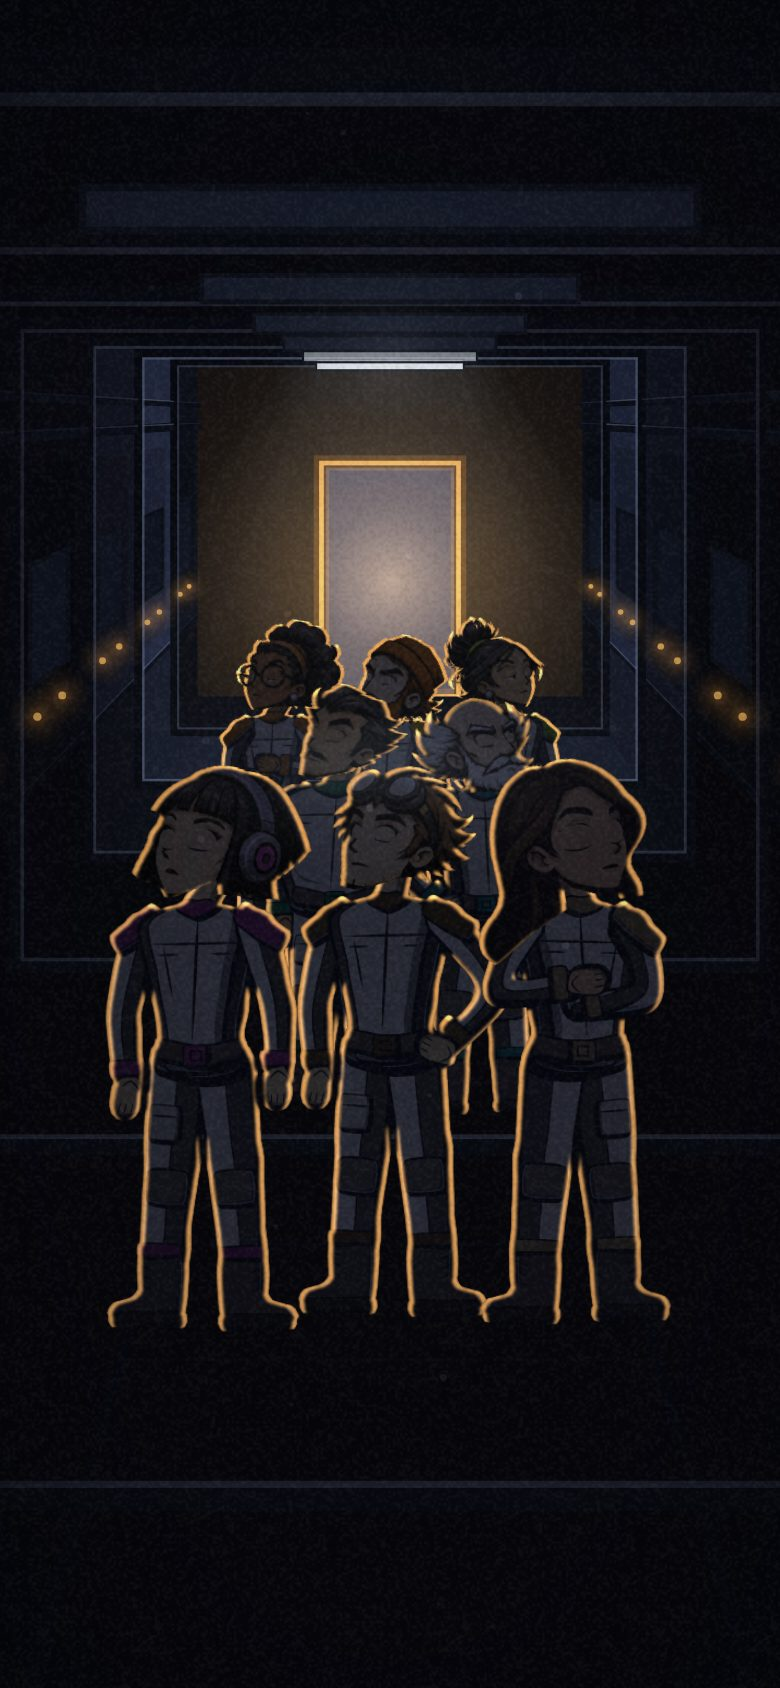
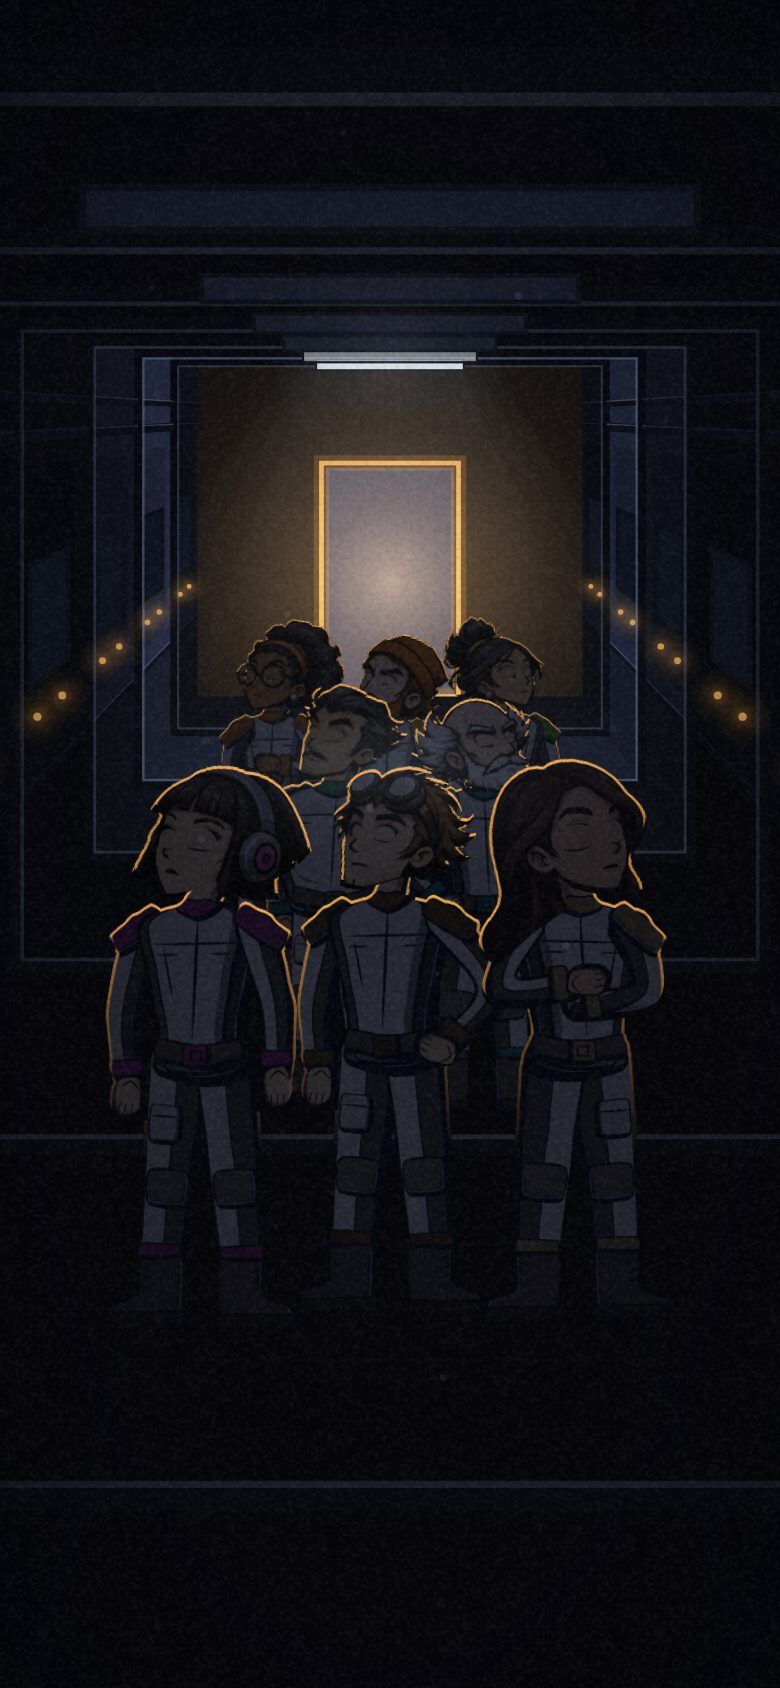
design(boarding film): the check recorded against 67fe6aa0 (the corridor lit from the doorway)
node design/tools/boarding-film-check.mjs on the clean source at 67fe6aa0: 52 of 52
captures, the probe 58 of 58, memory within the budget at all four sizes, and the pilot
faster than today's film at both speeds. Only the two captures of the dark corridor
changed (390x844-dark, 430x932-dark); the other fifty are the same bytes as before.

Measured this run (pictures a second, and with the CPU slowed 4x): today 17.5 and 6.3;
the pilot with its pictures drawn first 53.7 and 21.0; drawn as it plays 33.3 and 7.2.
The document carries these and says how they differ from the run before.

The videos and the sheet are still those rendered from 0842ff6c; the document says so.
They are rendered again with the review's other items.

Claude-Session: https://claude.ai/code/session_018p3bEhhSpSa2GPNE4ofbs3

diff --git a/docs/design/components/boarding-film.md b/docs/design/components/boarding-film.md
@@ -67,7 +67,7 @@ scene.dispose();                              // on every exit, as today
 
 **Its words stay the player's.** The picture is hidden from a screen reader. The player keeps the dialog's name ("The crew boards the ship") and the status line ("The crew boards the ship."); `BOARDING_TEXT` is the same text.
 
-**Preparing early (recommended).** `prepareBoardingScene(document, { roster, width, height })` draws the film's pictures ahead of it and returns what `createBoardingScene` takes as `options.prepared` (the same roster and size), with `ready` and `dispose()`. Call it once the roster is public and the page is quiet, for example when the player's own role film has ended. Drawing took 3.6 s on this desktop and 16.4 s with its CPU slowed 4x, in short pieces that leave the page its turns; a phone's time is not known. Without it the film draws its pictures as it opens: it comes up from the night as version 1's held pictures do, each shot's place and one pose of each figure come first, and a figure whose picture is not ready yet holds its nearest pose.
+**Preparing early (recommended).** `prepareBoardingScene(document, { roster, width, height })` draws the film's pictures ahead of it and returns what `createBoardingScene` takes as `options.prepared` (the same roster and size), with `ready` and `dispose()`. Call it once the roster is public and the page is quiet, for example when the player's own role film has ended. Drawing took 3.9 s on this desktop and 17.9 s with its CPU slowed 4x, in short pieces that leave the page its turns; a phone's time is not known. Without it the film draws its pictures as it opens: it comes up from the night as version 1's held pictures do, each shot's place and one pose of each figure come first, and a figure whose picture is not ready yet holds its nearest pose.
 
 **What Frontend and Integration decide:** admitting the film's files to the hosted build; linking its stylesheet; when to prepare; and that a match pinned to `1.0.0` keeps `1.0.0`.
 
@@ -82,19 +82,21 @@ scene.dispose();                              // on every exit, as today
 
 ## Measured
 
-From [`review/check.json`](../../../design/phone-ui/components/boarding-film/review/check.json), made against `0842ff6c`. Desktop Chromium, headless, drawing in software; 390 × 844 at 2 pixels a point. The slowdown is Chromium's throttle of the page's main thread, a rough stand-in for a slower phone. **No phone was measured: not its frame rate, and not its memory.**
+From [`review/check.json`](../../../design/phone-ui/components/boarding-film/review/check.json), made against `67fe6aa0`. Desktop Chromium, headless, drawing in software; 390 × 844 at 2 pixels a point. The slowdown is Chromium's throttle of the page's main thread, a rough stand-in for a slower phone. **No phone was measured: not its frame rate, and not its memory.**
 
 Both films were played in real time and driven as the live player drives a film (a paint at most thirty times a second):
 
 | Film | Pictures a second | With the CPU slowed 4x |
 | --- | --- | --- |
-| Today, `1.0.0` | 18.4 | 6.3 |
-| The pilot, its pictures drawn first | **56.4** | **20.2** |
-| The pilot, its pictures drawn as it plays | 36.1 | 8.3 |
+| Today, `1.0.0` | 17.5 | 6.3 |
+| The pilot, its pictures drawn first | **53.7** | **21.0** |
+| The pilot, its pictures drawn as it plays | 33.3 | 7.2 |
 
-Its pictures drawn first, the pilot keeps the screen's rate at this desktop's own speed: the page's frames came 16.7 ms apart at the middle, and 2 of the ten seconds' gaps were longer than 34 ms. Under today's film the page's frames came 33.4 ms apart at the middle and 137 gaps were longer than 34 ms: each of its paints rebuilds the picture's SVG (4,665 elements), and with the player painting at most thirty times a second it reached 18.4 pictures a second. To hold its rate the pilot drew its frame a step less sharp than the screen's pixels: 0.8 of them at this desktop's speed (624 × 1350 of 780 × 1688), and 0.5 slowed four times (390 × 844). This machine draws a canvas in software, so how far a phone steps down is not known from this. Today's film draws at the screen's full pixels at both speeds.
+One run each. The run before this one, on the source before the corridor's light changed (`0842ff6c`), gave 18.4 and 6.3, 56.4 and 20.2, 36.1 and 8.3: read each figure as good to a few per cent.
 
-Its pictures drawn as it plays, the pilot shares the page's time with that drawing (6.0 s of it here, 5.1 s slowed four times, where it also goes without the drawings it can spare) and stays at full sharpness while it does so. Slowed four times it reaches 8.3 pictures a second: more than today's film, and not what the pilot is for. **Prepare it.** Drawing the pictures first took 3.6 s here and 16.4 s slowed four times.
+Its pictures drawn first, the pilot keeps the screen's rate at this desktop's own speed: the page's frames came 17.7 ms apart at the middle, and none of the ten seconds' gaps was longer than 34 ms. Under today's film the page's frames came 37.4 ms apart at the middle and 140 gaps were longer than 34 ms: each of its paints rebuilds the picture's SVG (4,665 elements), and with the player painting at most thirty times a second it reached 17.5 pictures a second. To hold its rate the pilot drew its frame less sharp than the screen's pixels: 0.64 of them at this desktop's speed (499 × 1080 of 780 × 1688; 0.8 in the run before), and 0.5 slowed four times (390 × 844). This machine draws a canvas in software, so how far a phone steps down is not known from this. Today's film draws at the screen's full pixels at both speeds.
+
+Its pictures drawn as it plays, the pilot shares the page's time with that drawing (5.9 s of it here, 5.1 s slowed four times, where it also goes without the drawings it can spare) and stays at full sharpness while it does so. Slowed four times it reaches 7.2 pictures a second: more than today's film, and not what the pilot is for. **Prepare it.** Drawing the pictures first took 3.9 s here and 17.9 s slowed four times.
 
 What the pilot's pictures hold, all drawn at once (a crew of 8; a crew of 9 holds about the same):
 
@@ -116,6 +118,8 @@ In `design/phone-ui/components/boarding-film/review/`:
 - `pilot-sheet.jpg`: twelve moments side by side.
 - 52 captures (twenty moments at both sizes in full motion, six again with the device's Reduce motion) and `check.json`, under the production headers.
 
+**The videos and the sheet are from before the corridor's light changed.** They were rendered from `0842ff6c` (`renders.json` says so). The Lead's review of 16 November made the crew in the dark corridor lit from the doorway behind, not outlined (`67fe6aa0`); the captures `390x844-dark.jpg` and `430x932-dark.jpg` and `check.json` are from that source. The videos are rendered again once the review's other items are in.
+
 ## Limits
 
 - **No phone was measured.** Every number above is desktop Chromium drawing in software. A phone draws a canvas on its graphics chip, which this machine does not have; that should help, and it is not evidence.
@@ -123,7 +127,7 @@ In `design/phone-ui/components/boarding-film/review/`:
 - **Sound** is a separate owner decision; the film has none.
 - **The light's layer** needs `mix-blend-mode: screen` (Safari 8 and later, every current browser). Without it the light would lie over the picture as haze.
 - **A first film on a slow phone** starts sharp and steps down over its first second or two; later films on the same page start at the step it settled on.
-- **A film that was not prepared, on a slow phone,** is the weak case: while its pictures are still being drawn it does not step its sharpness down, and with the CPU slowed 4x it reached 8.3 pictures a second against today's 6.3. Preparing avoids it. Letting it step down while it draws is the first thing to harden if the pilot goes forward.
+- **A film that was not prepared, on a slow phone,** is the weak case: while its pictures are still being drawn it does not step its sharpness down, and with the CPU slowed 4x it reached 7.2 pictures a second against today's 6.3. Preparing avoids it. Letting it step down while it draws is the first thing to harden if the pilot goes forward.
 - **Only the boarding is restaged.** The role films, the brand intro and the films behind the board are as they were.
 
 ## Checks
